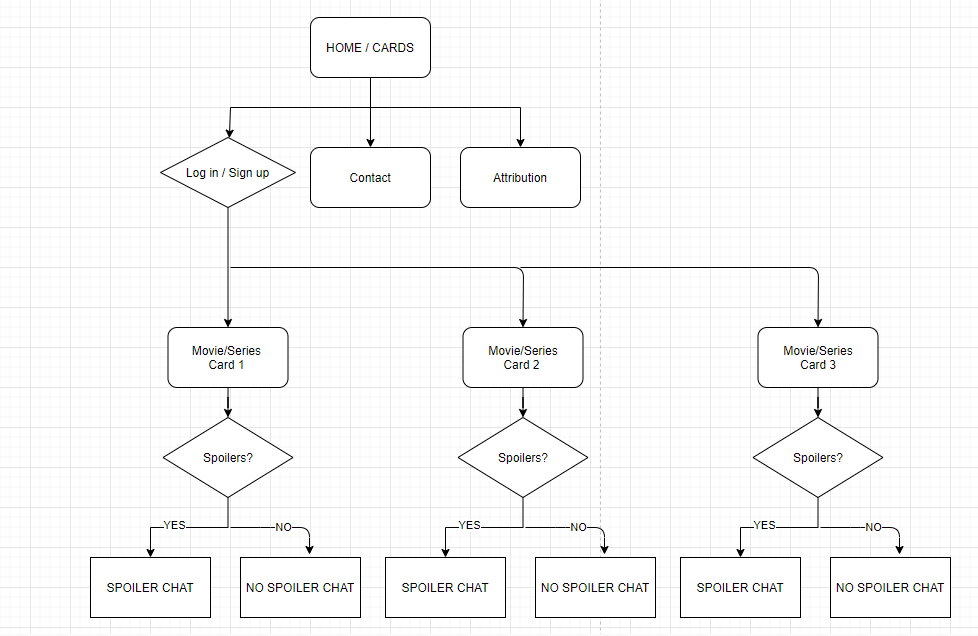
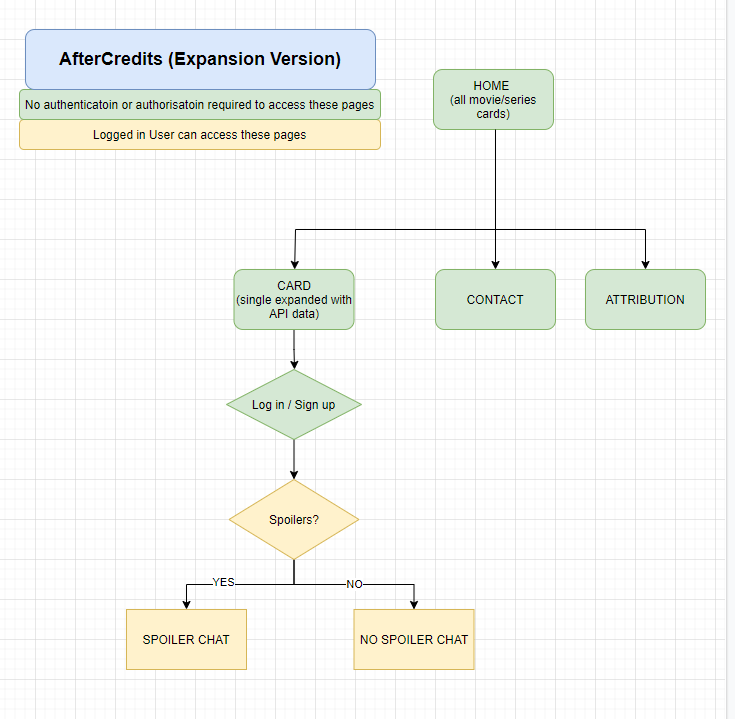
Update sitemaps

diff --git a/README.md b/README.md
@@ -20,7 +20,7 @@ AfterCredits is a movie chat app. There are two versions of the app:
 **A. Early Beginnings version:**
 
 ###### Sitemap: Early Beginnings version
-NOTE SITEMAPS NEED TO BE REDESIGNED IF CARDS ARE VISIBLE PRIOR TO LOGIN ************
+
 ![Core App Sitemap](docs/core_app.PNG)
 
 ###### Log in/Sign up: Early Beginnings version
@@ -72,7 +72,7 @@ Styling will include the following:
 **B. Expansion version:**
 
 ###### Sitemap: Expansion version
-NOTE SITEMAPS NEED TO BE REDESIGNED IF CARDS ARE VISIBLE PRIOR TO LOGIN ************
+
 ![Expanded App Sitemap](docs/expanded_app.PNG)
 
 ###### Log in/Sign up: Expansion version
@@ -107,7 +107,8 @@ As above but instead of including an admin email address, users can submit a con
 Styling will include the following:
 1.	Icons: https://fontawesome.com
 2.	Google fonts: https://fonts.google.com/
-3.  Animated background: https://greensock.com/
+3. Background image/s from unsplash: https://unsplash.com/
+4.  Animated background: https://greensock.com/
 
 ###### Additional features for future development (the nice-to-have-but-not-included list)
 - A search feature so that users can search for a movie or series by genre, actor, rating etc. This feature will not be pursued in the current project. It would require database design changes and features that are beyond the scope of the current project.
